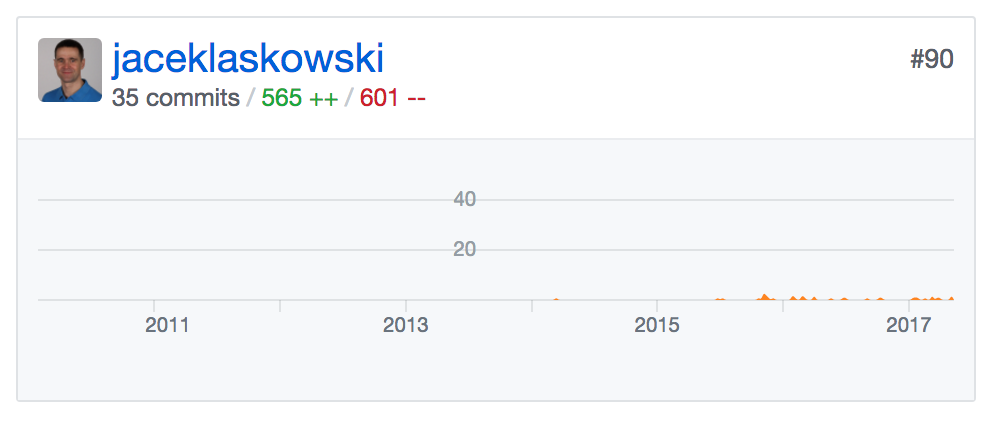
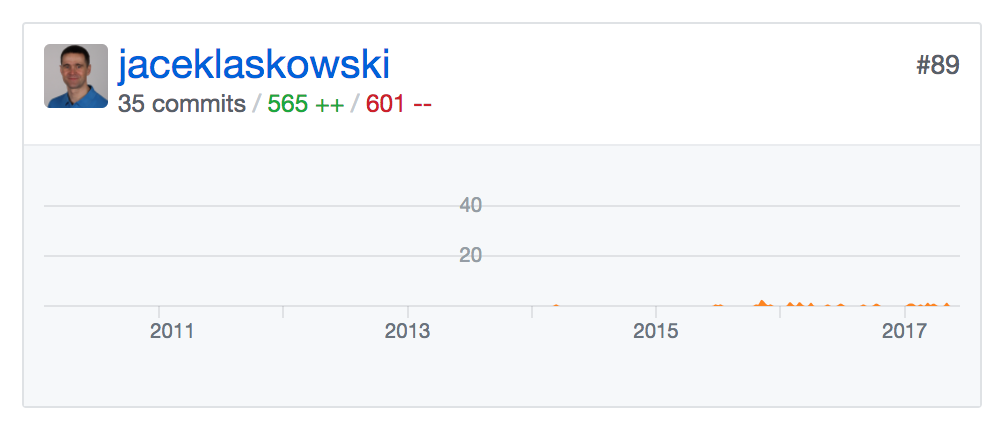
[SLIDES] Spark SQL 2.2 Workshop Agenda (3 days)

diff --git a/slides/00_agenda-3-days-Spark-SQL.html b/slides/00_agenda-3-days-Spark-SQL.html
@@ -1,0 +1,313 @@
+<!doctype html>
+<html lang="en">
+  <head>
+    <meta charset="utf-8">
+
+    <title>Spark SQL 2.2 Workshop Agenda (3 days)</title>
+
+    <meta name="description" content="Spark SQL 2.2 Workshop Agenda (3 days)">
+    <meta name="author" content="Jacek Laskowski">
+
+    <meta name="apple-mobile-web-app-capable" content="yes" />
+    <meta name="apple-mobile-web-app-status-bar-style" content="black-translucent" />
+
+    <meta name="viewport" content="width=device-width, initial-scale=1.0, maximum-scale=1.0, user-scalable=no, minimal-ui">
+
+    <link rel="stylesheet" href="css/reveal.css">
+    <link rel="stylesheet" href="css/theme/beige.css" id="theme">
+
+    <!-- Code syntax highlighting -->
+    <link rel="stylesheet" href="lib/css/zenburn.css">
+
+    <!-- Printing and PDF exports -->
+    <script>
+        var link = document.createElement( 'link' );
+        link.rel = 'stylesheet';
+        link.type = 'text/css';
+        link.href = window.location.search.match( /print-pdf/gi ) ? 'css/print/pdf.css' : 'css/print/paper.css';
+        document.getElementsByTagName( 'head' )[0].appendChild( link );
+    </script>
+
+    <!-- https://github.com/hakimel/reveal.js/issues/174 -->
+    <style>
+      .slides .header {
+        position: absolute;
+        top: 0px;
+        right: 0px;
+      }
+      .slides .footer {
+        position: absolute;
+        bottom: 0px;
+        left: 35%;
+      }
+    </style>
+    <!--[if lt IE 9]>
+    <script src="lib/js/html5shiv.js"></script>
+    <![endif]-->
+  </head>
+
+  <body>
+    <div class="reveal">
+      <div class="slides">
+
+        <div class="footer">
+          <small>Copyright ©2017 Jacek Laskowski</small>
+        </div>
+
+        <section class="intro" data-transition="zoom">
+          <p>
+            <img width="5%" style="background:none; border:none; box-shadow:none;" data-src="images/scala-logo.png">
+            <img width="17%" style="background:none; border:none; box-shadow:none;" data-src="images/spark-logo.png">
+            <img width="8%" src="images/jacek_laskowski_20141201_512px.png" style="border: 0">
+          </p>
+          <h1>Spark SQL 2.2<br/>Workshop <small>3 Days</small></h1>
+          <h4><a href="https://twitter.com/jaceklaskowski">@jaceklaskowski</a> / <a href="http://stackoverflow.com/users/1305344/jacek-laskowski">StackOverflow</a> / <a href="https://github.com/jaceklaskowski">GitHub</a><br />
+          Books: <a href="http://bit.ly/mastering-apache-spark">Mastering Apache Spark</a>  / <a href="http://bit.ly/spark-structured-streaming">Spark Structured Streaming</a></h4>
+        </section>
+
+        <section>
+          <section id="about-the-host">
+            <p>
+              <img width="15%" src="images/jacek_laskowski_20141201_512px.png" style="border: 0">
+            </p>
+            <ul>
+              <li><b>Jacek Laskowski</b> is an independent consultant
+                <ul>
+                  <li>Specializing in Spark, Kafka, Mesos, DC/OS, Scala</li>
+                </ul>
+              </li>
+              <li>Among contributors to <a href="http://spark.apache.org/releases/spark-release-2-2-0.html#credits">Spark 2.2</a>, <a href="http://spark.apache.org/releases/spark-release-2-1-0.html#credits">2.1</a>, <a href="http://spark.apache.org/releases/spark-release-2-0-0.html#credits">2.0</a> (since <a href="http://spark.apache.org/releases/spark-release-1-6-0.html#credits">1.6.0</a>)</li>
+              <li>Contact me at <b>jacek@japila.pl</b> or follow me on twitter at <a href="https://twitter.com/jaceklaskowski">@JacekLaskowski</a> &lt;-- and learn Spark twitter-way!</li>
+              <li>Delivering Development Services | Consulting | Training</li>
+              <li>Leader of <a href="http://warsawscala.pl">Warsaw Scala Enthusiasts</a> and <a href="http://www.meetup.com/Warsaw-Spark/">Warsaw Apache Spark</a></li>
+              <li><a href="https://community.oracle.com/community/java/java-champions">Java Champion</a></li>
+            </ul>
+          </section>
+          <section id="about-github">
+            <p>
+              <a href="https://github.com/jaceklaskowski">https://github.com/jaceklaskowski</a>
+            </p>
+            <p>
+              <img width="70%" src="images/jaceklaskowski-github-stats.png" style="border: 0">
+            </p>
+          </section>
+          <section id="about-notes">
+            <p>
+              <a href="https://bit.ly/mastering-apache-spark">https://bit.ly/mastering-apache-spark</a>
+            </p>
+            <p>
+              <img src="images/jaceklaskowski-gitbook-stats.png" style="border: 0">
+            </p>
+          </section>
+          <section id="github-spark-contributors">
+            <p>
+              <a href="https://github.com/apache/spark/graphs/contributors">Ranked #89 in Spark contributors</a>
+            </p>
+            <p>
+              <img width="100%" src="images/jaceklaskowski-github-spark-stats.png" style="border: 0">
+            </p>
+          </section>
+          <section id="about-stackoverflow">
+            <p>
+              <a href="http://stackoverflow.com/users/1305344/jacek-laskowski">http://stackoverflow.com/users/1305344/jacek-laskowski</a>
+            </p>
+            <p>
+              <img width="45%" src="images/jaceklaskowski-stackoverflow-stats.png" style="border: 0">
+            </p>
+          </section>
+          <section id="about-twitter">
+            <p>
+              <a href="https://twitter.com/jaceklaskowski">https://twitter.com/jaceklaskowski</a>
+            </p>
+            <p>
+              <img width="100%" src="images/jaceklaskowski-twitter-stats.png" style="border: 0">
+            </p>
+          </section>
+        </section>
+
+        <section id="goal">
+          <h2>Goal</h2>
+          <p>
+            Developing hands-on experience in<br />
+            <b>Spark SQL</b><br />
+            to exploit massive datasets at rest<br />
+            for advanced analytics and data-oriented decision making
+          </p>
+        </section>
+
+        <section id="agenda" data-markdown>
+          <script type="text/template">
+            ## Agenda
+
+            1. [Day 1A](#/day1a) &mdash; Spark SQL and Tools (spark-shell, Databricks)
+            1. [Day 1B](#/day1b) &mdash; Columns, Operators, Standard Functions and UDFs
+            1. [Day 2](#/day2) &mdash; Columns, Operators, Standard Functions and UDFs
+            1. [Day 3A](#/day3a) &mdash; Basic Aggregation and Joins
+            1. [Day 3B](#/day3b) &mdash; Advanced Aggregation
+          </script>
+        </section>
+
+        <section>
+          <section id="day1a" data-markdown>
+            <script type="text/template">
+              ## Day 1A &mdash; Spark SQL and Tools (spark-shell, Databricks)
+
+              1. [Spark SQL](http://blog.jaceklaskowski.pl/spark-workshop/slides/02_spark_sql.html)
+              1. [Into Apache Spark 2 Using spark-shell (and Databricks)](http://blog.jaceklaskowski.pl/spark-workshop/slides/01_Spark-Intro-Using-Spark-Shell.html)
+            </script>
+          </section>
+          <section id="day1b" data-markdown>
+            <script type="text/template">
+              ## Day 1B &mdash; Columns, Operators, Standard Functions and UDFs
+
+              1. [Columns, Operators, Standard Functions and UDFs](http://blog.jaceklaskowski.pl/spark-workshop/slides/02-spark-sql-columns-standard-functions-udfs.html)
+            </script>
+          </section>
+        </section>
+
+        <section id="day2" data-markdown>
+          <script type="text/template">
+            ## Day 2 &mdash; Columns, Operators, Standard Functions and UDFs
+
+            1. [Columns, Operators, Standard Functions and UDFs](http://blog.jaceklaskowski.pl/spark-workshop/slides/02-spark-sql-columns-standard-functions-udfs.html)
+          </script>
+        </section>
+
+        <section>
+          <section id="day3a" data-markdown>
+            <script type="text/template">
+              ## Day 3A &mdash; Basic Aggregation and Joins
+
+              1. [Basic Aggregation](http://blog.jaceklaskowski.pl/spark-workshop/slides/02-spark-sql-basic-aggregation.html)
+              1. [Joins](http://blog.jaceklaskowski.pl/spark-workshop/slides/02-spark-sql-joins.html)
+              1. [web UI](http://blog.jaceklaskowski.pl/spark-workshop/slides/01-spark-core-webui.html)
+            </script>
+          </section>
+          <section id="day3b" data-markdown>
+            <script type="text/template">
+              ## Day 3B &mdash; Advanced Aggregation
+
+              1. [Windowed Aggregation](http://blog.jaceklaskowski.pl/spark-workshop/slides/02-spark-sql-windowed-aggregation.html)
+              1. [Multi-Dimensional Aggregation](http://blog.jaceklaskowski.pl/spark-workshop/slides/02-spark-sql-multi-dimensional-aggregation.html)
+            </script>
+          </section>
+        </section>
+
+        <section>
+          <section id="coursera" data-markdown>
+            <script type="text/template">
+              <p>
+                <a href="https://www.coursera.org/learn/scala-spark-big-data">https://www.coursera.org/learn/scala-spark-big-data</a>
+              </p>
+              <p>
+                <img width="80%" src="images/coursera-bigdata-analysis-scala-spark.png"
+                  alt="Big Data Analysis with Scala and Spark" style="border: 0"/>
+              </p>
+            </script>
+          </section>
+          <section>
+            <p>
+              Mastering Apache Spark notebook featured in the Big Data course at Coursera!
+            </p>
+            <p>
+              <img width="90%" src="images/coursera-spark-mastering-apache-spark.png"
+                alt="Mastering Apache Spark featured in Big Data course at Coursera" style="border: 0"/>
+            </p>
+          </section>
+        </section>
+
+        <section>
+          <section id="prerequisities">
+            <h2>Prerequisities</h2>
+            <ol>
+              <li>Some programming experience using modern programming language, e.g. Scala, Python, Java, F#</li>
+              <li>Installed: <a href="http://www.oracle.com/technetwork/java/javase/downloads/index.html">Java Platform, Standard Edition (Java SE) 8</a></li>
+              <li>Downloaded: <a href="https://spark.apache.org/downloads.html">Apache Spark 2.2.0</a>
+                <ul>
+                  <li>Pre-built for Apache Hadoop 2.7 and later</li>
+                  <li>spark-2.2.0-bin-hadoop2.7.tgz</li>
+                </ul>
+            </ol>
+          </section>
+        </section>
+
+        <section>
+          <section id="case-class" data-markdown>
+            <script type="text/template">
+              ## « case class » (1 of 2)
+
+              1. Introduce Yourself
+                * First name
+                * How much you know about Spark SQL and Scala?
+                * What do you expect from the workshop?
+                * Where you wanna be with Spark after 5 days?
+            </script>
+          </section>
+          <section data-markdown>
+            <script type="text/template">
+              ## « case class » (2 of 2)
+
+              1. Write down your name on paper and put it in front of you
+              1. When is the lunch? 12 noon or 1 PM?
+            </script>
+          </section>
+        </section>
+
+        <section id="questions" style="text-align: left" data-markdown>
+          <script type="text/template">
+            # Questions?
+
+              * Read [Mastering Apache Spark 2](https://bit.ly/mastering-apache-spark)
+                * [https://bit.ly/mastering-apache-spark](https://bit.ly/mastering-apache-spark)
+              * Follow [@jaceklaskowski](https://twitter.com/jaceklaskowski) on twitter
+              * Upvote [my questions and answers on StackOverflow](http://stackoverflow.com/users/1305344/jacek-laskowski)
+              * Use [Jacek's code at GitHub](https://github.com/jaceklaskowski)
+              * Read [blog posts on Medium](https://medium.com/@jaceklaskowski)
+              * Upvote [my answers on Quora](https://www.quora.com/profile/Jacek-Laskowski)
+              * Connect on [LinkedIn](https://www.linkedin.com/in/jaceklaskowski/)
+              * Visit [Jacek Laskowski's blog](https://blog.jaceklaskowski.pl)
+          </script>
+        </section>
+
+      </div>
+    </div>
+
+    <script src="lib/js/head.min.js"></script>
+    <script src="js/reveal.js"></script>
+
+    <script>
+
+        // Full list of configuration options available at:
+        // https://github.com/hakimel/reveal.js#configuration
+        Reveal.initialize({
+            controls: true,
+            progress: true,
+            history: true,
+            center: true,
+
+            transition: 'slide', // none/fade/slide/convex/concave/zoom
+
+            // Optional reveal.js plugins
+            dependencies: [
+                { src: 'lib/js/classList.js', condition: function() { return !document.body.classList; } },
+                { src: 'plugin/markdown/marked.js', condition: function() { return !!document.querySelector( '[data-markdown]' ); } },
+                { src: 'plugin/markdown/markdown.js', condition: function() { return !!document.querySelector( '[data-markdown]' ); } },
+                { src: 'plugin/highlight/highlight.js', async: true, callback: function() { hljs.initHighlightingOnLoad(); } },
+                { src: 'plugin/zoom-js/zoom.js', async: true },
+                { src: 'plugin/notes/notes.js', async: true }
+            ]
+        });
+
+    </script>
+    <script>
+      (function(i,s,o,g,r,a,m){i['GoogleAnalyticsObject']=r;i[r]=i[r]||function(){
+      (i[r].q=i[r].q||[]).push(arguments)},i[r].l=1*new Date();a=s.createElement(o),
+      m=s.getElementsByTagName(o)[0];a.async=1;a.src=g;m.parentNode.insertBefore(a,m)
+      })(window,document,'script','//www.google-analytics.com/analytics.js','ga');
+
+      ga('create', 'UA-45999426-3', 'auto');
+      ga('send', 'pageview');
+
+    </script>
+  </body>
+</html>

diff --git a/slides/README.md b/slides/README.md
@@ -4,6 +4,7 @@
 
 ## Table of Contents
 
+1. [Spark SQL 2.2 Workshop Agenda (3 days)](http://blog.jaceklaskowski.pl/spark-workshop/slides/00_agenda-3-days-Spark-SQL.html) for Data Engineers, Business Analysts and Architects - taught in-class once in [Warsaw, Poland](https://en.wikipedia.org/wiki/Warsaw)
 1. [Spark SQL / Scala Workshop Agenda (5 days)](http://blog.jaceklaskowski.pl/spark-workshop/slides/00_agenda-5-days-Scala-SparkSQL.html) for Data Engineers, Business Analysts and Architects - taught twice in [Collegeville, PA, USA](https://en.wikipedia.org/wiki/Collegeville,_Pennsylvania)
 1. [Packt Live :: Streaming Analytics with Apache Spark](http://blog.jaceklaskowski.pl/spark-workshop/slides/00_Packt_Live_Streaming_Analytics.html) - 2-hour webinar about Spark SQL, Spark MLlib, Structured Streaming and Apache Kafka
 1. [Apache Spark 2 Workshop Agenda (4 days)](http://blog.jaceklaskowski.pl/spark-workshop/slides/00_agenda-4-days-Scala-SparkSQL-Streaming-MLlib-Kafka.html) - taught in [Geneva, Switzerland](https://en.wikipedia.org/wiki/Geneva)
